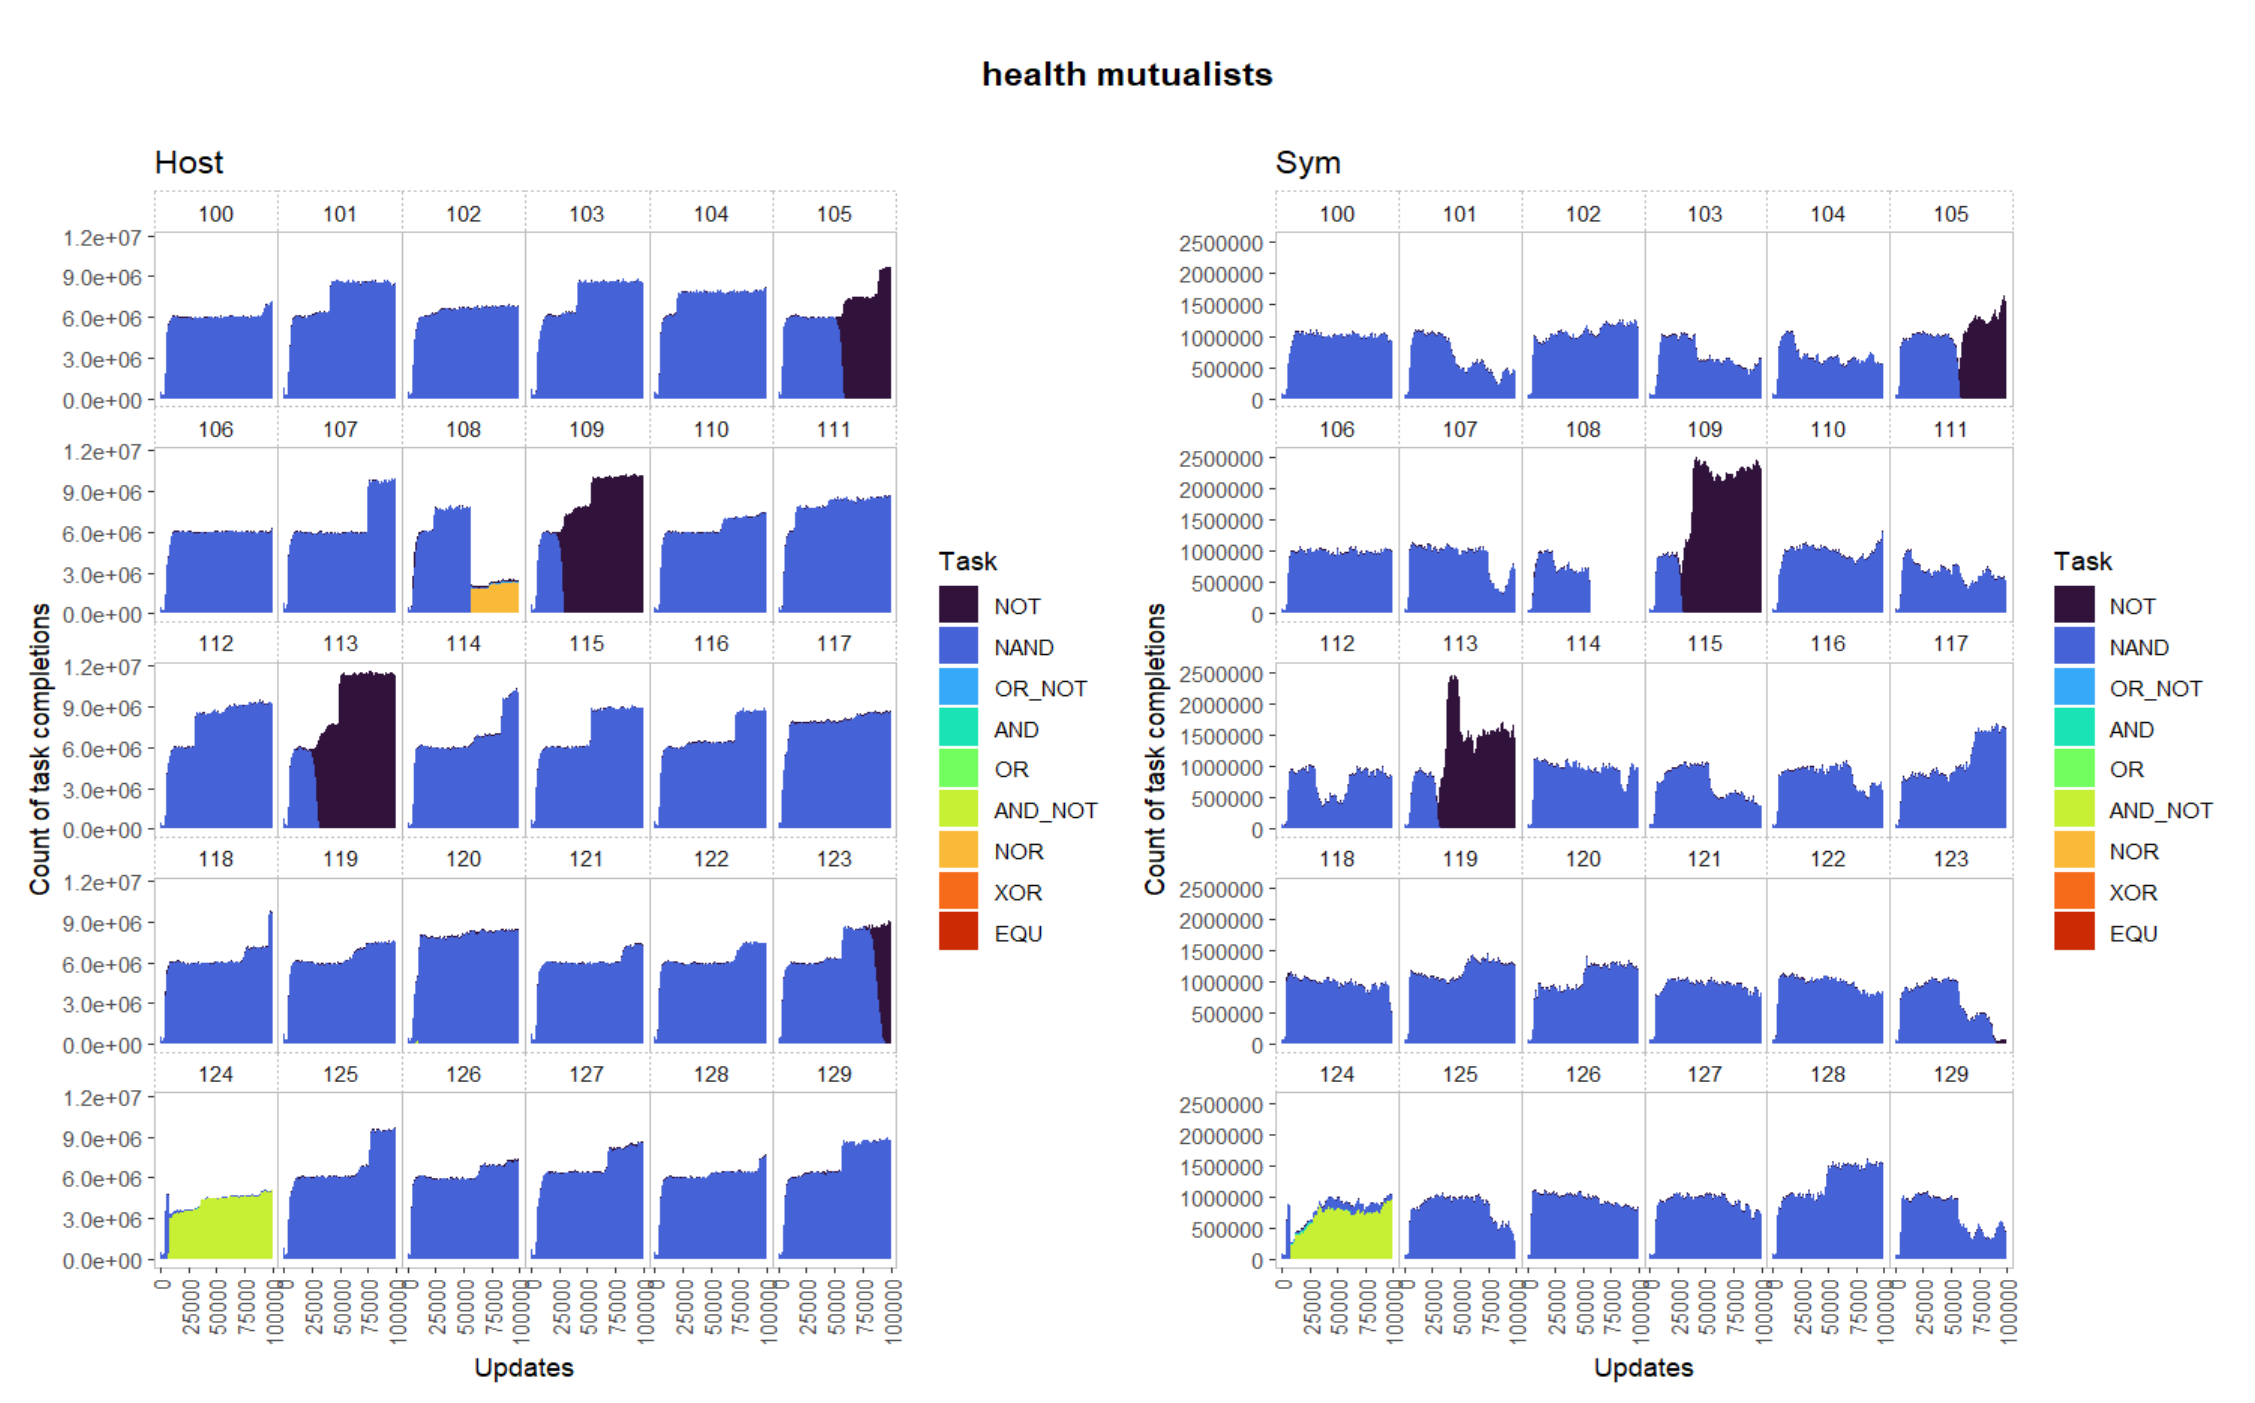
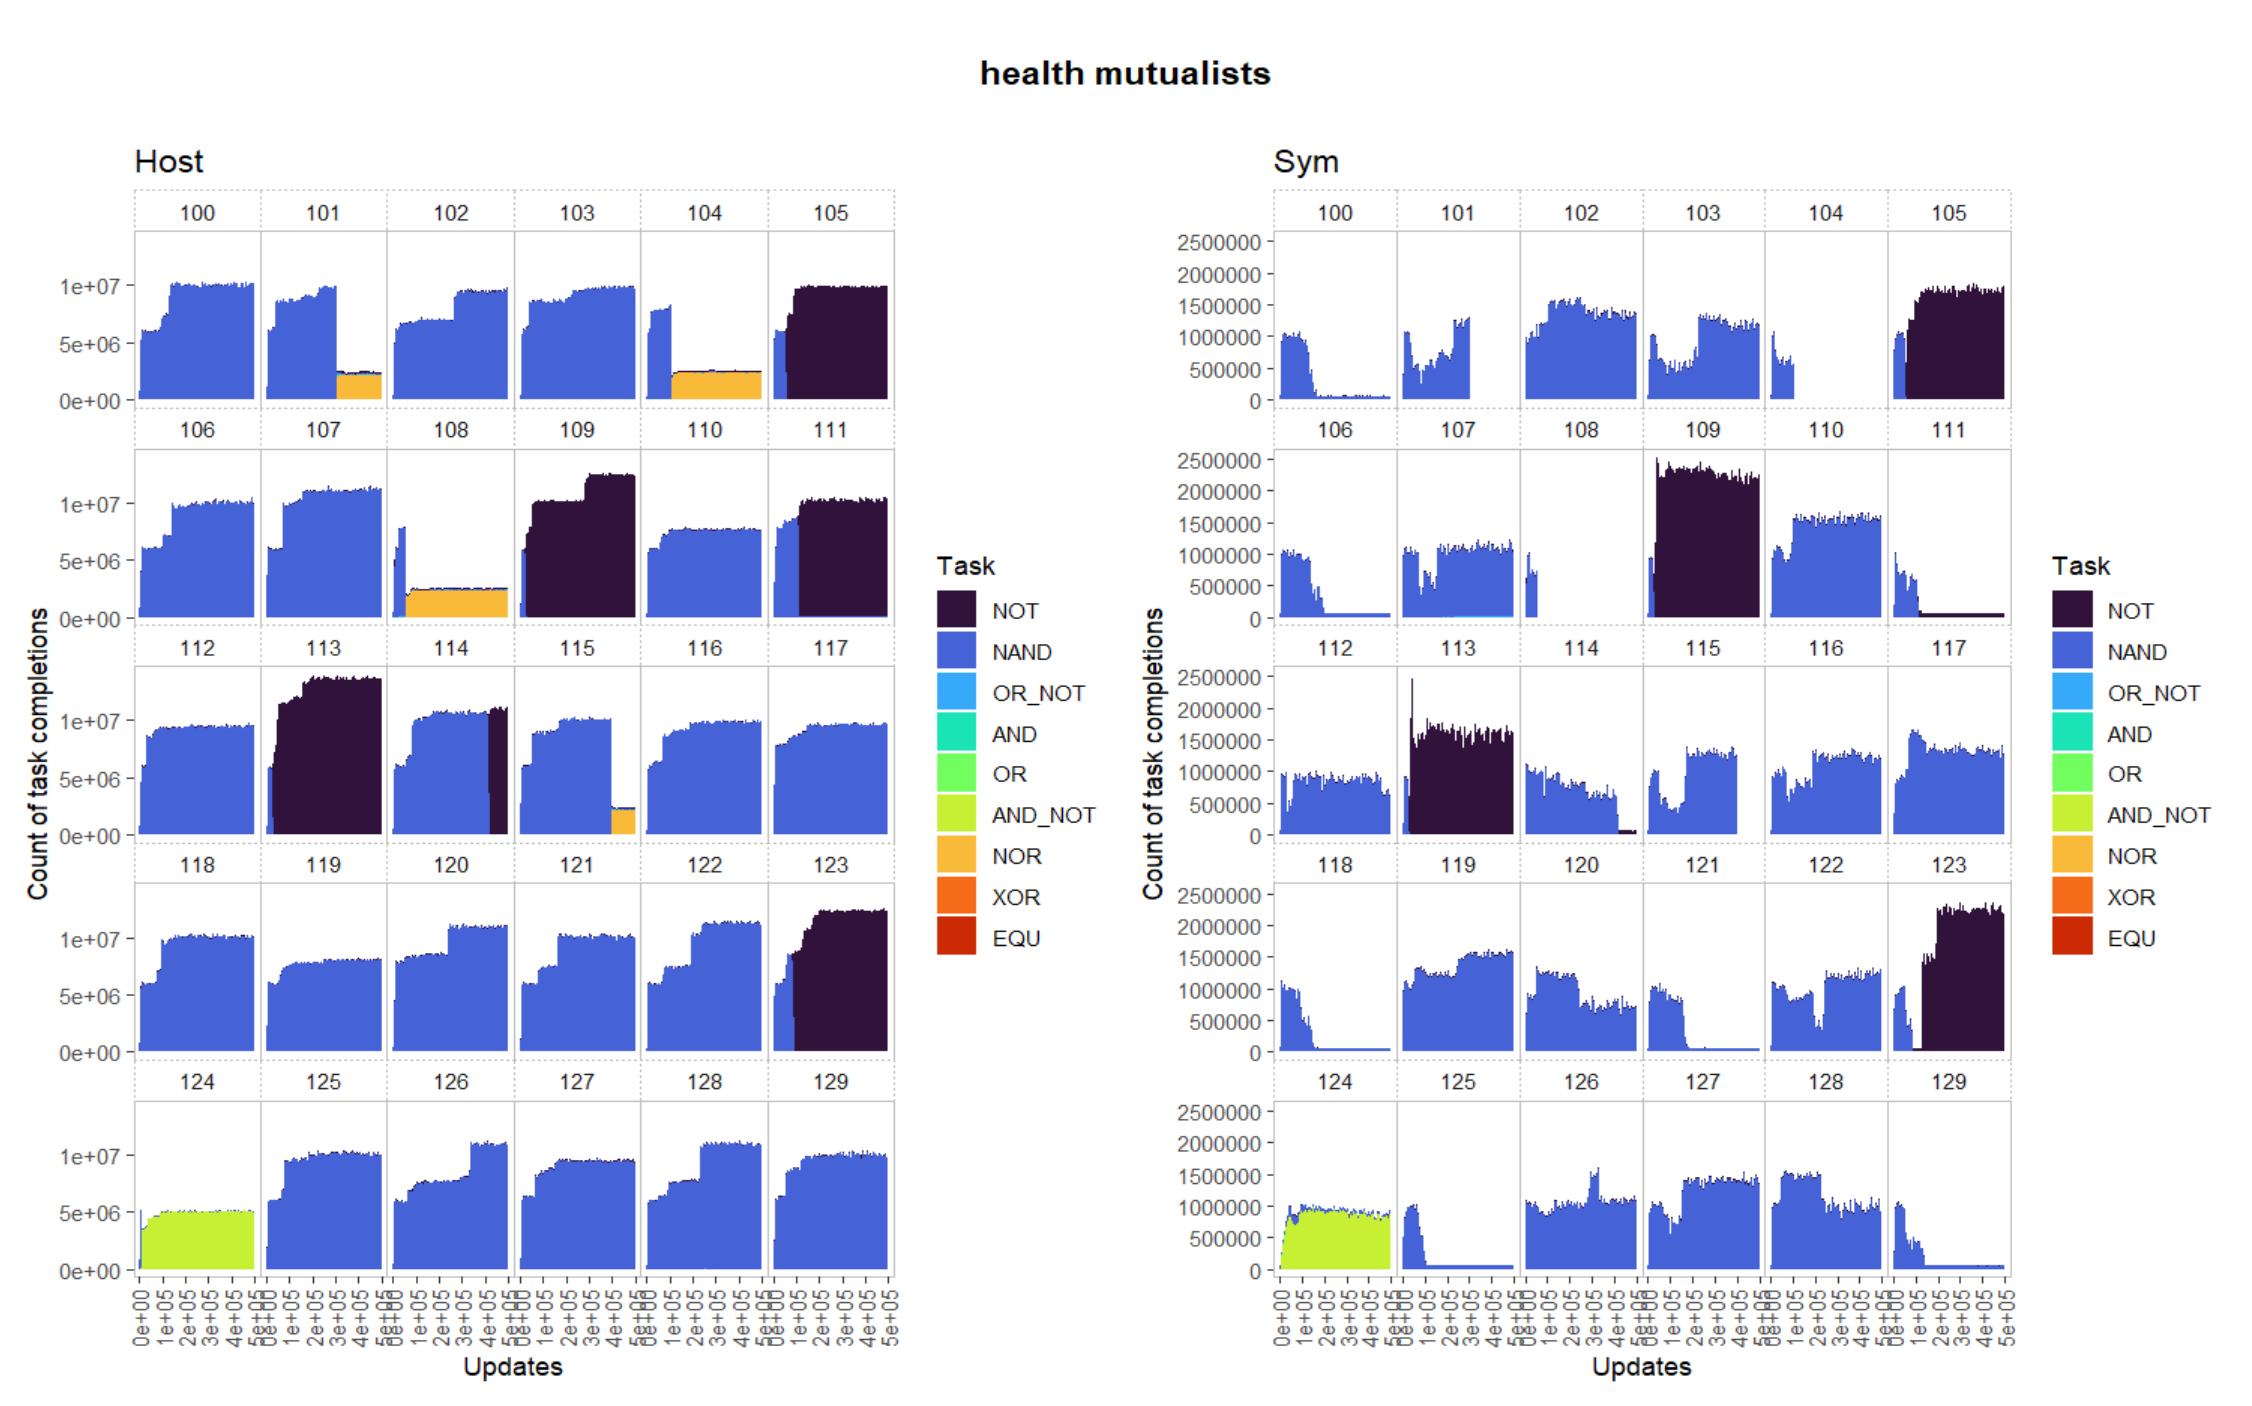
transmission

diff --git a/Analysis/26_7_31_health_grid/munge_transmission_data.py b/Analysis/26_7_31_health_grid/munge_transmission_data.py
@@ -1,0 +1,31 @@
+import os.path
+import gzip
+
+folder = '../../Data/26_8_10_health_grid_weak/'
+
+treatment_folders = ["health-mutualists-grid", "health-mutualists-gridw1", "health-parasites-grid", "health-parasites-gridw1", "health-nosyms-diff-grid" "health-nosyms-diff-gridw1", "health-nosyms-flat-grid" "health-nosyms-flat-gridw1"]
+
+reps = range(100,130)
+header = "uid treatment rep update horiz_attempts horiz_successes vert_attempts vert_successes\n"
+
+outputFileName = "munged_transmission_rates.dat"
+
+outFile = open(outputFileName, 'w')
+outFile.write(header)
+
+for t in treatment_folders:
+    for r in reps:
+        fname = folder + "/"+t+"/" + str(r) + "/Data" + "/TransmissionRates_data.csv"
+        uid = t + "_" + str(r)
+        curFile = open(fname, 'r')
+        for line in curFile:
+            if (line[0] != 'u'):
+                splitline = line.strip().split(',')
+                horiz_attempts = sum(int(splitline[i]) for i in range(1, 11))
+                horiz_successes = sum(int(splitline[i]) for i in range(11, 21))
+                vert_attempts = sum(int(splitline[i]) for i in range(21, 31))
+                vert_successes = sum(int(splitline[i]) for i in range(31, 41))
+                outRow = f'{uid} {t} {r} {splitline[0]} {horiz_attempts} {horiz_successes} {vert_attempts} {vert_successes}\n'
+                outFile.write(outRow)
+        curFile.close()
+outFile.close()

diff --git a/Analysis/26_8_10_health_grid_weak/munge_transmission_data.py b/Analysis/26_8_10_health_grid_weak/munge_transmission_data.py
@@ -1,0 +1,31 @@
+import os.path
+import gzip
+
+folder = '../../Data/26_7_31_health_grid/'
+
+treatment_folders = ["health-mutualists-grid", "health-mutualists-gridw1", "health-parasites-grid", "health-parasites-gridw1", "health-nosyms-diff-grid" "health-nosyms-diff-gridw1", "health-nosyms-flat-grid" "health-nosyms-flat-gridw1"]
+
+reps = range(100,130)
+header = "uid treatment rep update horiz_attempts horiz_successes vert_attempts vert_successes\n"
+
+outputFileName = "munged_transmission_rates.dat"
+
+outFile = open(outputFileName, 'w')
+outFile.write(header)
+
+for t in treatment_folders:
+    for r in reps:
+        fname = folder + "/"+t+"/" + str(r) + "/Data" + "/TransmissionRates_data.csv"
+        uid = t + "_" + str(r)
+        curFile = open(fname, 'r')
+        for line in curFile:
+            if (line[0] != 'u'):
+                splitline = line.strip().split(',')
+                horiz_attempts = sum(int(splitline[i]) for i in range(1, 11))
+                horiz_successes = sum(int(splitline[i]) for i in range(11, 21))
+                vert_attempts = sum(int(splitline[i]) for i in range(21, 31))
+                vert_successes = sum(int(splitline[i]) for i in range(31, 41))
+                outRow = f'{uid} {t} {r} {splitline[0]} {horiz_attempts} {horiz_successes} {vert_attempts} {vert_successes}\n'
+                outFile.write(outRow)
+        curFile.close()
+outFile.close()

diff --git a/Analysis/26_8_5_health_nutrient_control_weak/munge_transmission_data.py b/Analysis/26_8_5_health_nutrient_control_weak/munge_transmission_data.py
@@ -1,0 +1,31 @@
+import os.path
+import gzip
+
+folder = '../../Data/26_8_5_health_nutrient_control/'
+
+treatment_folders = ["health-mutualists", "health-parasites", "nutrient-parasites", "nutrient-mutualists"]
+
+reps = range(100,130)
+header = "uid treatment rep update horiz_attempts horiz_successes vert_attempts vert_successes\n"
+
+outputFileName = "munged_transmission_rates.dat"
+
+outFile = open(outputFileName, 'w')
+outFile.write(header)
+
+for t in treatment_folders:
+    for r in reps:
+        fname = folder + "/"+t+"/" + str(r) + "/Data" + "/TransmissionRates_data.csv"
+        uid = t + "_" + str(r)
+        curFile = open(fname, 'r')
+        for line in curFile:
+            if (line[0] != 'u'):
+                splitline = line.strip().split(',')
+                horiz_attempts = sum(int(splitline[i]) for i in range(1, 11))
+                horiz_successes = sum(int(splitline[i]) for i in range(11, 21))
+                vert_attempts = sum(int(splitline[i]) for i in range(21, 31))
+                vert_successes = sum(int(splitline[i]) for i in range(31, 41))
+                outRow = f'{uid} {t} {r} {splitline[0]} {horiz_attempts} {horiz_successes} {vert_attempts} {vert_successes}\n'
+                outFile.write(outRow)
+        curFile.close()
+outFile.close()

diff --git a/Analysis/26_7_30_health_stress_just_after_DONATION_STEAL_INST_schenanigans/munge_transmission_data.py b/Analysis/26_7_30_health_stress_just_after_DONATION_STEAL_INST_schenanigans/munge_transmission_data.py
@@ -1,0 +1,31 @@
+import os.path
+import gzip
+
+folder = '../../Data/26_7_30_health_stress_just_after_DONATION_STEAL_INST_schenanigans/'
+
+treatment_folders = ["health-mutualists", "health-parasites"]
+
+reps = range(100,130)
+header = "uid treatment rep update horiz_attempts horiz_successes vert_attempts vert_successes\n"
+
+outputFileName = "munged_transmission_rates.dat"
+
+outFile = open(outputFileName, 'w')
+outFile.write(header)
+
+for t in treatment_folders:
+    for r in reps:
+        fname = folder + "/"+t+"/" + str(r) + "/Data" + "/TransmissionRates_data.csv"
+        uid = t + "_" + str(r)
+        curFile = open(fname, 'r')
+        for line in curFile:
+            if (line[0] != 'u'):
+                splitline = line.strip().split(',')
+                horiz_attempts = sum(int(splitline[i]) for i in range(1, 11))
+                horiz_successes = sum(int(splitline[i]) for i in range(11, 21))
+                vert_attempts = sum(int(splitline[i]) for i in range(21, 31))
+                vert_successes = sum(int(splitline[i]) for i in range(31, 41))
+                outRow = f'{uid} {t} {r} {splitline[0]} {horiz_attempts} {horiz_successes} {vert_attempts} {vert_successes}\n'
+                outFile.write(outRow)
+        curFile.close()
+outFile.close()
